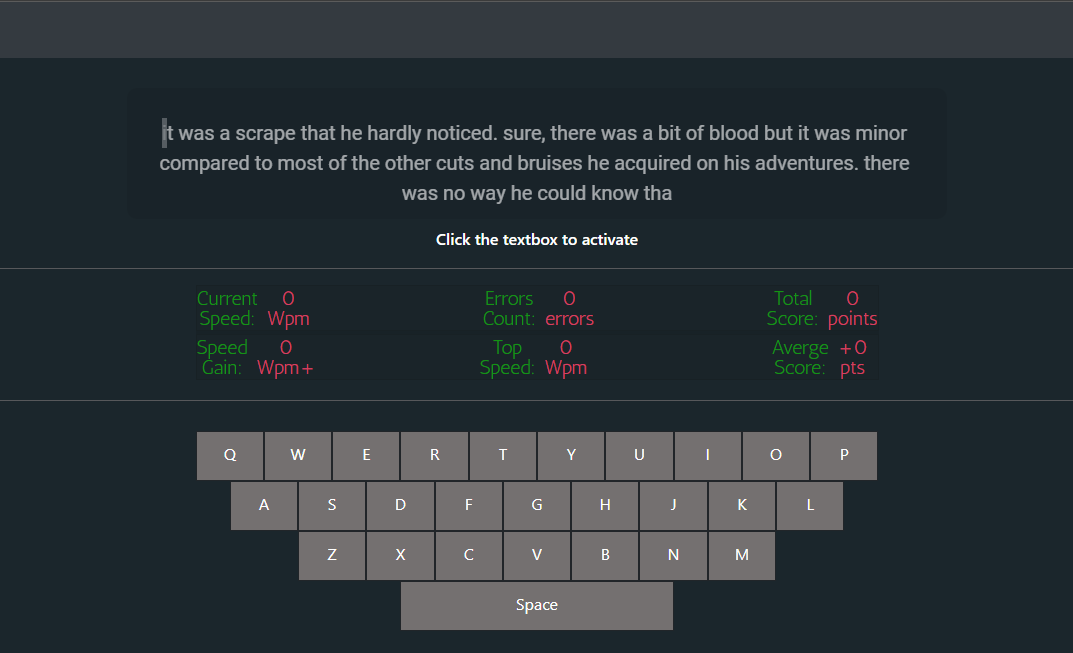
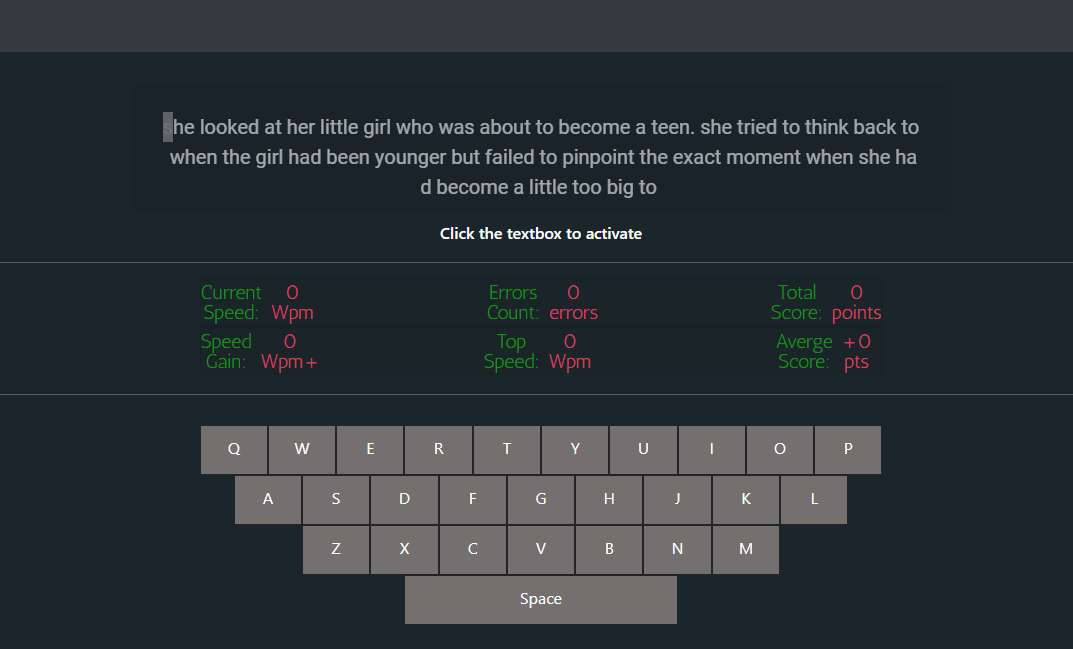
Added mobile and tablet images in project section

diff --git a/react/component/Project/Project.module.css b/react/component/Project/Project.module.css
@@ -19,13 +19,27 @@
   display: none;
 }
 
-.project_li > .project_text {
-  /* background: url(/assets/mobile/ReactChat.jpeg); */
-  background-color: #1a1111;
+.project_li:nth-child(1) > .project_text {
+  background: url(/assets/mobile/ReactChat.png);
+  background-repeat: no-repeat;
   background-size: cover;
-  color: var(--secondary-font-color);
+}
+
+.project_li:nth-child(2) > .project_text {
+  background: url(/assets/mobile/Wgp.png);
+  background-repeat: no-repeat;
+  background-size: cover;
+}
+
+.project_li:nth-child(3) > .project_text {
+  background: url(/assets/mobile/Keystroke.png);
+  background-repeat: no-repeat;
+  background-size: cover;
+}
+
+.project_li > .project_text {
   padding: 1rem 1rem 2rem 1rem;
-  background-position: center center;
+  color: var(--secondary-font-color);
   font-family: var(--roboto-font);
 }
 
@@ -70,6 +84,24 @@
   .project_li > .project_text {
     padding: 1rem 1rem 2rem 2rem;
   }
+
+  .project_li:nth-child(1) > .project_text {
+    background: url(/assets/tablet/ReactChat.png);
+    background-repeat: no-repeat;
+    background-size: cover;
+  }
+
+  .project_li:nth-child(2) > .project_text {
+    background: url(/assets/tablet/Wgp.png);
+    background-repeat: no-repeat;
+    background-size: cover;
+  }
+
+  .project_li:nth-child(3) > .project_text {
+    background: url(/assets/tablet/Keystroke.png);
+    background-repeat: no-repeat;
+    background-size: cover;
+  }
 }
 
 @media (min-width: 780px) {
@@ -96,13 +128,14 @@
   .project_image > a:hover img {
     filter: brightness(1);
   }
+
   .project_li > .project_text > h4 {
     color: var(--heading-color);
     font-family: var(--heading-font);
   }
 
   .project_li > .project_text {
-    background: none;
+    background: none !important;
     padding: 1rem 1rem 2rem 1rem;
     text-align: right;
     margin-left: -10%;
